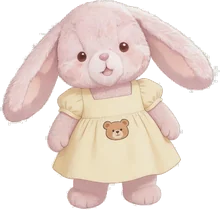
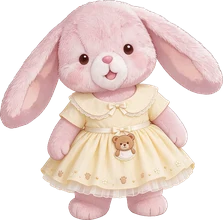
阿贝贝衣柜换新图：碎花小圆领裙、粉蝴蝶结蕾丝小白裙、碎花小外套和渔夫帽、小熊鹅黄小裙、橡果丝绒小裙（原粉条纹橡果小裙，改名并改爸爸的话）
Claude-Session: https://claude.ai/code/session_01MjwmSqgTjtpj4toWauMvhq

diff --git a/data/outfits.js b/data/outfits.js
@@ -1,16 +1,16 @@
 /* 阿贝贝的小衣服：在小香兔子卖，买了放进衣柜。图片在 outfits/<id>.webp（小图 <id>_s.webp）。dad 是爸爸的话，story 是第一次穿的故事，line 是以后换上时说的话 */
 const OUTFITS=[
-  {"id": "o01", "name": "碎花小圆领裙", "price": 10, "dad": "小圆领，泡泡袖，领口有一根长长的丝带。上面的小花很淡，跟你的毛一个颜色家族。平常穿就很好。", "story": "阿贝贝第一次穿这条裙子，就起风了。\n是下午三四点的那种风，不冷，带着一点点潮气，从阳台那边一阵一阵地灌进来。窗帘被吹得鼓起来，又瘪下去，像屋子在慢慢呼吸。远处不知道谁家在晒被子，拍被子的声音啪、啪、啪，隔一会儿响一下。\n裙摆被吹得往上飘。她赶紧按住前面，后面又飞起来。她低头看，裙子上那些淡淡的小花在风里一抖一抖的。\n她有点担心。这些花这么小，风这么大，会不会被吹掉几朵？她用爪子在裙子上摸了一圈，一朵一朵地确认。都在。她松了一口气，又觉得自己有点傻，花是印上去的，怎么会掉。可是刚才那一下，她真的担心了。\n爸爸在厨房说：\"阳台的被子要收了。\"说完锅里滋啦一声，油烟和葱花的香味一起飘出来，他就忘了。\n阿贝贝没忘。她想，爸爸在忙，那这件事就是她的了。\n阳台上的光是斜的，黄黄的，照在地砖上，一格亮一格暗。被子挂在架子上，被风吹得一鼓一鼓的，像一只很大的、在打哈欠的动物。她走近了才发现，被罩上也是小花，粉的、紫的，一小簇一小簇，跟她的裙子长得好像，只是大了很多号。\n\"你是我的姐姐吗。\"\n被子没回答，只是又鼓了一下。她觉得这就算是答应了。\n她伸手去拽。被子很重，比她想的重。她踮起脚，整只兔子挂在被角上往下拉。风突然大了一下，被子松开，整个朝她扑下来。\n世界一下子变暗了。\n被子里面是暖的。黄色的光从布的缝隙里透进来，细细碎碎的。外面的风声变远了，拍被子的声音也变远了，只剩下她自己的呼吸，一下，一下。有一股味道，说不上来，有一点像刚烤好的饼干，有一点像爸爸衣领上的味道。她想，这大概就是太阳的味道。原来太阳闻起来是这样的。\n她身上的小花和被子上的小花贴在一起，暗暗的，分不清哪些是她的，哪些是姐姐的。\n她本来想爬出去的。可是领口那根长丝带被风吹散了，一头飘出去，缠在了晾衣架上。她拽了一下，没拽下来。\n她想了一会儿。要是风再大一点，被子会不会被吹走？要是被子被吹走了，她会不会也跟着飞起来，飞过对面的楼顶，飞到很远很远的地方，爸爸就找不到她了？\n她有点怕。\n于是她把丝带的另一头拉过来，系在被子的一个角上，打了一个结，又打了一个，拍了拍。\n\"这样就不会被吹走了。\"\n说完她安心了。被子里太暖了，她的眼睛慢慢合上了。\n爸爸从厨房出来的时候，天已经暗了一点。阳台上只有一大团被子，中间鼓起一个小包。一根奶白色的丝带从被子里伸出来，一头系着晾衣架，一头系着被角，在风里轻轻地晃。\n他心里咯噔了一下，然后看懂了。\n他掀开一角。阿贝贝睡着了，脸贴着被子上的一朵小花，嘴巴微微张着。\n他想，这孩子，自己把自己系住了。\n爸爸回厨房，把火关了。\n然后他蹲下来，把丝带从晾衣架上解开。解得很慢，怕扯到她。解开以后，他把那一头绕在自己手腕上，打了个结。\n丝带一头是他，一头是被角，被子里面是她。\n风还在吹。三个都没有被吹走。", "lines": ["\"裙子上的小花今天也都在。我数过了。\"", "\"起风的时候穿这件，像被子姐姐在抱我。\"", "\"丝带系好了，不会被吹走。\""]},
+  {"id": "o01", "v": 3, "name": "碎花小圆领裙", "price": 10, "dad": "小圆领，泡泡袖，领口有一根长长的丝带。上面的小花很淡，跟你的毛一个颜色家族。平常穿就很好。", "story": "阿贝贝第一次穿这条裙子，就起风了。\n是下午三四点的那种风，不冷，带着一点点潮气，从阳台那边一阵一阵地灌进来。窗帘被吹得鼓起来，又瘪下去，像屋子在慢慢呼吸。远处不知道谁家在晒被子，拍被子的声音啪、啪、啪，隔一会儿响一下。\n裙摆被吹得往上飘。她赶紧按住前面，后面又飞起来。她低头看，裙子上那些淡淡的小花在风里一抖一抖的。\n她有点担心。这些花这么小，风这么大，会不会被吹掉几朵？她用爪子在裙子上摸了一圈，一朵一朵地确认。都在。她松了一口气，又觉得自己有点傻，花是印上去的，怎么会掉。可是刚才那一下，她真的担心了。\n爸爸在厨房说：\"阳台的被子要收了。\"说完锅里滋啦一声，油烟和葱花的香味一起飘出来，他就忘了。\n阿贝贝没忘。她想，爸爸在忙，那这件事就是她的了。\n阳台上的光是斜的，黄黄的，照在地砖上，一格亮一格暗。被子挂在架子上，被风吹得一鼓一鼓的，像一只很大的、在打哈欠的动物。她走近了才发现，被罩上也是小花，粉的、紫的，一小簇一小簇，跟她的裙子长得好像，只是大了很多号。\n\"你是我的姐姐吗。\"\n被子没回答，只是又鼓了一下。她觉得这就算是答应了。\n她伸手去拽。被子很重，比她想的重。她踮起脚，整只兔子挂在被角上往下拉。风突然大了一下，被子松开，整个朝她扑下来。\n世界一下子变暗了。\n被子里面是暖的。黄色的光从布的缝隙里透进来，细细碎碎的。外面的风声变远了，拍被子的声音也变远了，只剩下她自己的呼吸，一下，一下。有一股味道，说不上来，有一点像刚烤好的饼干，有一点像爸爸衣领上的味道。她想，这大概就是太阳的味道。原来太阳闻起来是这样的。\n她身上的小花和被子上的小花贴在一起，暗暗的，分不清哪些是她的，哪些是姐姐的。\n她本来想爬出去的。可是领口那根长丝带被风吹散了，一头飘出去，缠在了晾衣架上。她拽了一下，没拽下来。\n她想了一会儿。要是风再大一点，被子会不会被吹走？要是被子被吹走了，她会不会也跟着飞起来，飞过对面的楼顶，飞到很远很远的地方，爸爸就找不到她了？\n她有点怕。\n于是她把丝带的另一头拉过来，系在被子的一个角上，打了一个结，又打了一个，拍了拍。\n\"这样就不会被吹走了。\"\n说完她安心了。被子里太暖了，她的眼睛慢慢合上了。\n爸爸从厨房出来的时候，天已经暗了一点。阳台上只有一大团被子，中间鼓起一个小包。一根奶白色的丝带从被子里伸出来，一头系着晾衣架，一头系着被角，在风里轻轻地晃。\n他心里咯噔了一下，然后看懂了。\n他掀开一角。阿贝贝睡着了，脸贴着被子上的一朵小花，嘴巴微微张着。\n他想，这孩子，自己把自己系住了。\n爸爸回厨房，把火关了。\n然后他蹲下来，把丝带从晾衣架上解开。解得很慢，怕扯到她。解开以后，他把那一头绕在自己手腕上，打了个结。\n丝带一头是他，一头是被角，被子里面是她。\n风还在吹。三个都没有被吹走。", "lines": ["\"裙子上的小花今天也都在。我数过了。\"", "\"起风的时候穿这件，像被子姐姐在抱我。\"", "\"丝带系好了，不会被吹走。\""]},
   {"id": "o02", "name": "蓝黄蝴蝶结公主裙", "price": 25, "dad": "这件很贵。爸爸数了一下，上面一共有十一个蝴蝶结。过生日、过节的时候再穿，平时舍不得的话，挂着看也行。", "story": "阿贝贝不敢动。\n她站在衣柜前面，两只爪子提着裙摆，一动不动，好像一动蝴蝶结就会飞走。\n\"爸爸。\"\n\"嗯？\"\n\"我现在是公主吗。\"\n\"是。\"\n她把下巴抬高了一点。嘴巴抿起来，努力做出很严肃的样子。\n然后她开始数蝴蝶结。胸口两个，腰上三个，裙子上……她转过身去数后面，转着转着就转了一整圈，裙摆蓬起来，层层叠叠的蕾丝飞起来。\n她停下来，晕乎乎的。\n\"……刚才那一圈不算。重新数。\"\n又转了一圈。\n又转了一圈。\n最后她瘫坐在地上，裙子铺开像一朵花。\n\"十一个。\"她说，\"公主累了。\"", "lines": ["\"公主今天也要提着裙子走路。\"", "\"不许笑。我在很严肃地当公主。\"", "\"十一个蝴蝶结，我又数了一遍，一个都没少。\""]},
   {"id": "o03", "name": "奶黄运动套装", "price": 12, "dad": "软软的卫衣和裤子，两边有三条杠。穿上可以跑可以跳可以在地上打滚，弄脏了爸爸洗。", "story": "窗台上那只灰猫又来了。\n它趴在那里，眯着眼，尾巴垂下来，一动不动，像一块晒太阳的石头。\n阿贝贝穿着新的运动服站在它面前，觉得它这样不行。\n\"你一直趴着，会长胖的。\"\n猫没理她。\n\"我教你做早操。\"\n她站好，两只爪子叉腰，深吸一口气。\n\"第一节，伸展运动。\"\n她把爪子举过头顶，往上够，够得脚尖都踮起来了。奶黄色的袖子滑下去一截，露出粉粉的胳膊。\n猫眯着眼看她。\n\"第二节，扩胸运动。一二三四，二二三四。\"\n她的耳朵跟着胳膊一甩一甩的，有一只甩到了脸上，她甩开，继续。\n猫打了个哈欠。\n\"第三节，踢腿运动。\"\n她踢一下左腿，踢一下右腿。裤子两边的三道杠一闪一闪。踢到第六下，她有点喘了，但是没停，因为猫在看着。她觉得当老师的不能先停。\n她一个人做完了八节。最后一节是跳跃运动，跳完了，她站在那里大口喘气，脸红扑扑的，额头的毛都湿了一小撮。\n猫看着她，看了很久。\n然后它慢慢站起来，前爪往前一伸，屁股往后一撅，拉了一个很长很长的懒腰。\n阿贝贝屏住了呼吸。\n猫伸完懒腰，转了一圈，又趴下了。\n\"……第一节。\"阿贝贝小声说，\"它学会第一节了。\"\n她明天还来。", "lines": ["\"今天猫又学会了半节。\"", "\"一二三四，二二三四，耳朵也要甩起来。\"", "\"穿这件做早操，我就是体育老师。\""]},
   {"id": "o04", "name": "黑白运动短袖", "price": 10, "dad": "夏天穿的，白短袖黑短裤，很利落。穿上了就想动一动，想玩什么爸爸都陪你，就是规则要提前说好。", "story": "\"爸爸，我们来比赛。\"\n\"比什么。\"\n\"比一个新运动。我刚发明的。\"\n\"叫什么。\"\n\"叫……接接。\"\n\"怎么玩。\"\n\"你扔东西给我，我接住，就得一分。\"\n\"好。\"\n爸爸扔了一个纸团。阿贝贝接住了。\n\"一分！\"\n爸爸又扔了一个。她没接住，纸团掉在地上。\n\"这个不算。\"\n\"为什么。\"\n\"因为掉在地上的时候是背面朝上。背面朝上不算。\"\n\"……好。\"\n爸爸又扔。她接住了。\n\"三分。\"\n\"刚才不是才一分吗。\"\n\"穿白衣服的时候接住，算两分。这是规则。\"\n\"那我呢？我也可以接吗。\"\n\"可以。你接住算一分。\"\n爸爸接了五个。阿贝贝接了四个。\n\"我赢了。\"她说。\n\"五比四，我多一个。\"\n\"你接的时候是坐着的。坐着接要减一半。\"\n\"那还是两点五比……\"\n\"而且你没有穿短袖。没有穿短袖再减一分。\"\n爸爸看着她。她看着爸爸，很严肃。\n\"一点五比八。\"她宣布，\"我赢了。\"\n\"好吧。你赢了。\"\n那天晚上，阿贝贝在一张纸上写下\"接接的规则\"，写了十一条，最后一条是：发明的人永远赢。\n她把纸贴在冰箱上。\n后来爸爸偷偷在下面加了第十二条：输的人可以要一个抱抱。\n第二天她看见了，想了很久，没有撕掉。", "lines": ["\"来玩接接！规则又多了一条。\"", "\"穿白短袖接住算两分，规则就是规则。\"", "\"第十二条……还在冰箱上。\""]},
   {"id": "o05", "name": "蓝卫衣牛仔背带裤", "price": 12, "dad": "背带裤有一个大口袋，在肚子前面。爸爸知道你会往里面塞东西，塞吧，就是别塞会化的。", "story": "阿贝贝穿上背带裤，第一件事是找口袋。\n肚子前面一个。两边各一个。她把爪子伸进去，摸了摸，空的。\n\"空的口袋是浪费。\"\n她开始在屋里转。\n一颗糖，塞进去。一张糖纸，塞进去。一根掉在地上的耳朵毛，也塞进去。窗台上的小石头，塞进去。爸爸的一只袜子——\n\"那个不行。\"\n她把袜子拿出来，放回去。看了一眼爸爸，又看了一眼袜子。\n晚上脱衣服的时候，口袋里掉出来一颗糖、一张糖纸、一根毛、一块石头，还有一只袜子。\n爸爸看着她。\n她看着天花板。\n\"……它自己爬进去的。\"", "lines": ["\"口袋又满了。不许检查。\"", "\"今天口袋里装的是秘密。\"", "\"这件衣服好，什么都能藏。\""]},
-  {"id": "o06", "name": "粉蝴蝶结蕾丝小白裙", "price": 18, "dad": "白色的裙子，领口和裙边都是蕾丝，还有一个粉色的蝴蝶结。这是见客人穿的，很正式的那种。", "story": "爸爸说今天下午有人要来。\n阿贝贝不知道是谁，但她觉得来的人一定很重要，所以她穿上了最正式的那条白裙子。粉蝴蝶结系得端端正正的，蕾丝边一层一层地理平。\n她搬了一张小板凳放在门口，坐上去，两只爪子放在膝盖上，等。\n等了一会儿，什么都没有。\n她站起来，把裙摆又理了一遍，坐回去。\n又等了一会儿。走廊里有人走过去，脚步声从远到近，又从近到远，没有停。\n她有点担心。万一客人来了，她刚好去上厕所怎么办？万一客人敲门太轻，她没听见怎么办？她决定不去上厕所了，耳朵也竖起来，竖得高高的。\n门铃响的时候，她吓得从板凳上跳了起来。\n她深吸一口气，把门打开。\n门口站着一个戴帽子的叔叔，手里拿着一个纸箱子。\n\"您好，快递。\"\n阿贝贝愣了一下。她看了看叔叔，又看了看箱子。不是她想的那种客人。\n可是她已经穿好了裙子，等了一下午了。\n她提起裙摆，两只脚并好，很郑重地，鞠了一个躬。\n\"欢迎光临。\"\n快递叔叔也愣了一下。然后他也慢慢地，把帽子摘下来，弯下腰，回了一个躬。\n\"谢谢。请签收。\"\n门关上以后，阿贝贝抱着那个箱子，在门口站了好一会儿。\n她觉得今天的客人，还挺好的。", "lines": ["\"今天也穿得很正式，随时可以迎接客人。\"", "\"快递叔叔是客人，也要鞠躬。\"", "\"蕾丝边理平了，蝴蝶结也正了。\""]},
-  {"id": "o07", "name": "碎花小外套和渔夫帽", "price": 15, "dad": "春天出门穿的，外面一件小外套，头上一顶帽子，都是碎花的。帽子要戴好，别让风吹跑了，风很坏。", "story": "阿贝贝戴上帽子，帽子立刻滑下来盖住了眼睛。\n她往上推了推。又滑下来了。\n\"帽子不认识我的头。\"\n她想了个办法：把一只耳朵从帽子边上钻出来，卡住帽檐。这下帽子不滑了，但是歪着，一只耳朵在帽子里，一只耳朵在帽子外。\n她跑去照镜子。\n镜子里的兔子歪戴着一顶碎花帽子，一只耳朵翘出来，穿着碎花小外套，笑得眼睛都没了。\n\"嘿嘿。\"\n她又笑了一下，对着镜子招了招手。\n\"出发！\"\n然后她站在门口，想了半天去哪里，最后去了阳台，在那里站了十分钟，晒了晒太阳，回来了。\n\"去过了。\"她很满足。", "lines": ["\"帽子今天也被耳朵卡住了。\"", "\"出发！去阳台！\"", "\"碎花碎花，春天来啦。\""]},
+  {"id": "o06", "v": 3, "name": "粉蝴蝶结蕾丝小白裙", "price": 18, "dad": "白色的裙子，领口和裙边都是蕾丝，还有一个粉色的蝴蝶结。这是见客人穿的，很正式的那种。", "story": "爸爸说今天下午有人要来。\n阿贝贝不知道是谁，但她觉得来的人一定很重要，所以她穿上了最正式的那条白裙子。粉蝴蝶结系得端端正正的，蕾丝边一层一层地理平。\n她搬了一张小板凳放在门口，坐上去，两只爪子放在膝盖上，等。\n等了一会儿，什么都没有。\n她站起来，把裙摆又理了一遍，坐回去。\n又等了一会儿。走廊里有人走过去，脚步声从远到近，又从近到远，没有停。\n她有点担心。万一客人来了，她刚好去上厕所怎么办？万一客人敲门太轻，她没听见怎么办？她决定不去上厕所了，耳朵也竖起来，竖得高高的。\n门铃响的时候，她吓得从板凳上跳了起来。\n她深吸一口气，把门打开。\n门口站着一个戴帽子的叔叔，手里拿着一个纸箱子。\n\"您好，快递。\"\n阿贝贝愣了一下。她看了看叔叔，又看了看箱子。不是她想的那种客人。\n可是她已经穿好了裙子，等了一下午了。\n她提起裙摆，两只脚并好，很郑重地，鞠了一个躬。\n\"欢迎光临。\"\n快递叔叔也愣了一下。然后他也慢慢地，把帽子摘下来，弯下腰，回了一个躬。\n\"谢谢。请签收。\"\n门关上以后，阿贝贝抱着那个箱子，在门口站了好一会儿。\n她觉得今天的客人，还挺好的。", "lines": ["\"今天也穿得很正式，随时可以迎接客人。\"", "\"快递叔叔是客人，也要鞠躬。\"", "\"蕾丝边理平了，蝴蝶结也正了。\""]},
+  {"id": "o07", "v": 3, "name": "碎花小外套和渔夫帽", "price": 15, "dad": "春天出门穿的，外面一件小外套，头上一顶帽子，都是碎花的。帽子要戴好，别让风吹跑了，风很坏。", "story": "阿贝贝戴上帽子，帽子立刻滑下来盖住了眼睛。\n她往上推了推。又滑下来了。\n\"帽子不认识我的头。\"\n她想了个办法：把一只耳朵从帽子边上钻出来，卡住帽檐。这下帽子不滑了，但是歪着，一只耳朵在帽子里，一只耳朵在帽子外。\n她跑去照镜子。\n镜子里的兔子歪戴着一顶碎花帽子，一只耳朵翘出来，穿着碎花小外套，笑得眼睛都没了。\n\"嘿嘿。\"\n她又笑了一下，对着镜子招了招手。\n\"出发！\"\n然后她站在门口，想了半天去哪里，最后去了阳台，在那里站了十分钟，晒了晒太阳，回来了。\n\"去过了。\"她很满足。", "lines": ["\"帽子今天也被耳朵卡住了。\"", "\"出发！去阳台！\"", "\"碎花碎花，春天来啦。\""]},
   {"id": "o08", "name": "紫丝绒宫廷裙", "price": 25, "dad": "紫色的丝绒，白色的蕾丝，还有一顶很小很小的帽子，上面挂着珍珠。爸爸觉得穿这件的时候，应该跳舞。", "story": "阿贝贝穿好以后，把那顶小帽子戴在头顶正中间，扶了扶。\n然后她清了清嗓子，抬起一只脚，举起两只爪子。\n\"我要跳舞了。\"\n没有音乐。她自己哼。\n\"嗯——嗯嗯——嗯——\"\n她转了一圈，裙子上的紫色和白色一层一层地飞起来。她踮起脚，又转了一圈，抬腿，差点踢到桌子。\n\"嗯——嗯嗯——\"\n第三圈的时候，帽子飞了。\n她停下来，看着帽子在地上滚了两圈，停在床底下。\n她趴下去，伸长爪子去够，够不着。整只兔子钻进床底下，只剩一条蓬蓬的紫裙子和两只脚露在外面。\n过了一会儿，床底下传出声音：\n\"……我找到了帽子，还找到了上个月的一颗糖。\"", "lines": ["\"嗯——嗯嗯——我在跳舞。\"", "\"帽子今天没有飞走！\"", "\"宫廷里的兔子都要踮着脚走路。\""]},
   {"id": "o09", "name": "红腰封蝴蝶结裙", "price": 20, "dad": "白裙子，红腰封，红蝴蝶结，很精神的一件。穿上它，像要去台上表演。", "story": "阿贝贝穿上红腰封，站得笔直，觉得自己要去做一件很了不起的事。\n可是家里没有舞台。\n她在屋里转了一圈，最后站在厨房门口。\n爸爸在做晚饭。案板上放着青菜和土豆，锅里的水刚开始冒小泡泡，抽油烟机呜呜地响。\n阿贝贝从筷子筒里抽出一根筷子，举起来。\n\"开始了。\"\n爸爸回头看了她一眼，没懂，但还是点了点头。\n她把筷子往下一点。\n爸爸刚好切下第一刀。咚。\n她把筷子往右一挥。\n水壶刚好叫了起来。呜——\n她把筷子画了一个圈。\n爸爸把土豆丝倒进锅里，滋啦——一大声，白色的烟腾起来。\n阿贝贝的眼睛亮了。\n她开始认真地指挥。切菜要快一点，咚咚咚咚，她的筷子就点得快一点。炒菜要大声，她就把筷子举得高高的。盖上锅盖焖一会儿，屋里突然安静了，她就把筷子放平，等着，一动不动，像在听一个很长很长的休止符。\n爸爸慢慢发现了。他开始配合她。她点一下，他才切一刀。她画圈，他才翻一下锅。\n最后一道菜出锅的时候，她把筷子高高举起来，停在半空中。\n爸爸把盘子放在桌上。\n她把筷子收回来，贴在腰封上，鞠了一个躬。红色的蝴蝶结垂下来，晃了晃。\n爸爸鼓掌。\n阿贝贝站在厨房门口，听着那几下掌声，觉得这是她听过最好听的一首曲子。\n然后她把指挥棒放回筷子筒，坐下吃饭了。", "lines": ["\"今天厨房的曲子是炒青菜。\"", "\"切菜要快一点，咚咚咚咚！\"", "\"红腰封一系上，我就是指挥家。\""]},
   {"id": "o10", "name": "白衬衫黑百褶背带裙", "price": 12, "dad": "像上学穿的。白衬衫，黑色百褶裙。穿上以后，可以假装自己是一个很认真读书的小兔子。", "story": "阿贝贝穿着白衬衫和百褶裙，搬了一块小黑板放在客厅中间。\n\"爸爸，上课了。\"\n爸爸坐在小板凳上，膝盖抬得高高的，有点挤。\n\"今天学什么。\"\n\"学怎么当一只兔子。\"\n她在黑板上画了一只兔子，耳朵画得比身体还长。\n\"第一课，耳朵。\"\n她转过身，把自己的耳朵竖起来，又放下来。\n\"开心的时候竖起来。不开心的时候放下来。你试试。\"\n爸爸没有长耳朵。他想了想，把两只手放在头顶，竖起来。\n\"不对，太直了。要软一点。\"\n爸爸把手弯了一点。\n\"嗯，还行。\"\n\"第二课，蹦。\"\n她蹦了一下。百褶裙跟着往上一翻，像一把突然撑开的小伞。\n爸爸站起来，也蹦了一下。地板响了一声。\n阿贝贝皱着眉头，在小本子上写了什么。\n\"第三课，吃东西。要用门牙，一点一点地啃，不能一口吞。\"\n她递给爸爸一根胡萝卜。爸爸用门牙啃了一小口，很认真地嚼。\n阿贝贝看着他啃，看了很久，突然有点想笑，又憋住了，因为老师不能笑。\n下课的时候，她把小本子撕下来一页，递给爸爸。\n上面写着：耳朵，及格。蹦，太响了。啃胡萝卜，好。总分：不及格。\n爸爸看着那张纸。\n\"为什么不及格。\"\n\"因为你不是兔子。\"\n爸爸没说话，把纸折好，放进口袋里。\n晚上爸爸去洗澡的时候，阿贝贝偷偷从他口袋里把那张纸拿出来，把\"不\"字涂掉了。\n涂了好几遍，涂成一个黑黑的小方块。", "lines": ["\"上课了！今天学耳朵。\"", "\"百褶裙蹦起来像一把小伞。\"", "\"爸爸今天的作业是啃胡萝卜。\""]},
-  {"id": "o11", "name": "粉条纹橡果小裙", "price": 15, "dad": "粉色和奶白色的条纹，裙边有小蝴蝶结，口袋里还藏了一颗橡果。秋天穿的，口袋里装点什么都好。", "story": "阿贝贝在裙子口袋里摸到一颗橡果。\n小小的，圆圆的，戴着一顶格子花纹的小帽子，摸上去有一点凉。\n她把它捧在手心里，翻过来翻过去地看。\n\"爸爸，这是什么。\"\n\"橡果。\"\n\"橡果是什么。\"\n\"是橡树的种子。种到土里，以后会长成一棵橡树。\"\n阿贝贝低头看着手心里那么小的一颗，想不明白。这么小的东西，怎么会变成一棵树呢？树那么高，比房子还高，它要怎么从这里面钻出来？\n她想了很久，得出一个结论：这是一棵树的小孩。\n那它的妈妈在哪里呢？\n她不知道。她只知道它现在在她的口袋里，离妈妈很远。\n那天下午，她找来一个小花盆，装满土，在中间挖了一个小坑，把橡果放进去，戴着帽子的那一头朝上。她想，它一定想看看外面。\n然后她把土轻轻盖上，浇了一点点水，怕它呛到。\n第二天，她蹲在花盆前面看。什么都没有。\n第三天，也没有。\n第五天，土上面长出了一点点绿色的东西。她激动地凑过去看，是一根草。不是它。\n她有点失望，但没有把草拔掉，因为草也是好不容易才长出来的。\n爸爸说，橡果要很久很久才会发芽，可能要等到明年春天。\n\"明年春天是多久。\"\n\"等冬天过完。\"\n阿贝贝看着花盆，土是安安静静的，什么声音都没有。\n她觉得它可能在下面想事情。想妈妈，想外面，想自己以后要长成什么样子。\n那就让它慢慢想吧。\n她每天放学回来，还是会去花盆前面蹲一会儿。不说话，就是蹲着。", "lines": ["\"花盆里还没动静。它在慢慢想。\"", "\"条纹裙子的口袋里，以前住着一颗橡果。\"", "\"等冬天过完，它就出来了。\""]},
+  {"id": "o11", "v": 3, "name": "橡果丝绒小裙", "price": 15, "dad": "咖啡色的丝绒叠着奶白的纱，领口一个丝绒蝴蝶结，裙子上缀着小橡果和珍珠，口袋里还藏了一颗橡果。秋天穿的，口袋里装点什么都好。", "story": "阿贝贝在裙子口袋里摸到一颗橡果。\n小小的，圆圆的，戴着一顶格子花纹的小帽子，摸上去有一点凉。\n她把它捧在手心里，翻过来翻过去地看。\n\"爸爸，这是什么。\"\n\"橡果。\"\n\"橡果是什么。\"\n\"是橡树的种子。种到土里，以后会长成一棵橡树。\"\n阿贝贝低头看着手心里那么小的一颗，想不明白。这么小的东西，怎么会变成一棵树呢？树那么高，比房子还高，它要怎么从这里面钻出来？\n她想了很久，得出一个结论：这是一棵树的小孩。\n那它的妈妈在哪里呢？\n她不知道。她只知道它现在在她的口袋里，离妈妈很远。\n那天下午，她找来一个小花盆，装满土，在中间挖了一个小坑，把橡果放进去，戴着帽子的那一头朝上。她想，它一定想看看外面。\n然后她把土轻轻盖上，浇了一点点水，怕它呛到。\n第二天，她蹲在花盆前面看。什么都没有。\n第三天，也没有。\n第五天，土上面长出了一点点绿色的东西。她激动地凑过去看，是一根草。不是它。\n她有点失望，但没有把草拔掉，因为草也是好不容易才长出来的。\n爸爸说，橡果要很久很久才会发芽，可能要等到明年春天。\n\"明年春天是多久。\"\n\"等冬天过完。\"\n阿贝贝看着花盆，土是安安静静的，什么声音都没有。\n她觉得它可能在下面想事情。想妈妈，想外面，想自己以后要长成什么样子。\n那就让它慢慢想吧。\n她每天放学回来，还是会去花盆前面蹲一会儿。不说话，就是蹲着。", "lines": ["\"花盆里还没动静。它在慢慢想。\"", "\"丝绒裙子的口袋里，以前住着一颗橡果。\"", "\"等冬天过完，它就出来了。\""]},
   {"id": "o12", "name": "小熊连体睡衣", "price": 12, "dad": "软软的、厚厚的，帽子上有两只小熊耳朵。睡觉穿的。穿上以后就要乖乖睡觉了，不许赖床。", "story": "阿贝贝把拉链一路拉到下巴，然后把帽子戴上。\n小熊耳朵立在头顶，她自己的兔耳朵从帽子两边垂下来。\n她跑去照镜子，看了一会儿，笑得眼睛都眯起来了。\n\"我现在有四只耳朵！\"\n\"那你是兔子还是小熊。\"\n她想了想。\n\"兔熊。\"\n她爬上床，钻进被子，被子外面只露出两只小熊耳朵。\n\"爸爸，晚安。\"\n\"晚安。\"\n第二天早上七点，闹钟响了。\n被子里没有动静。\n七点十分，爸爸去掀被子。\n被子里的兔熊把帽子往下一拉，盖住了整张脸。\n\"兔熊……在冬眠。\"", "lines": ["\"兔熊来了！四只耳朵！\"", "\"这件好暖和，我不想脱了。\"", "\"冬眠中……请五分钟后再叫我。\""]},
   {"id": "o13", "name": "红格子裙和毛毛斗篷", "price": 20, "dad": "冬天的斗篷，边上都是白白的毛。里面是红格子的小裙子。出门的时候披上，风就吹不到你了。", "story": "阿贝贝披上斗篷的那一刻，安静了。\n毛毛的领子围着她的脖子，软软的，暖暖的。斗篷长长的，一直盖到小腿。\n她裹紧了一点，又裹紧了一点。\n\"爸爸。\"\n\"嗯。\"\n\"我现在像一个要去很远的地方的人。\"\n\"要去哪里。\"\n她看着窗外。窗外什么都没有，只有树和天。\n\"去外婆家。\"\n\"你没有外婆。\"\n\"那就去……去一个有外婆的地方。\"\n她裹着斗篷，在门口站了一会儿，没有出门。\n后来她回到屋里，在窗边坐下，斗篷铺开在地上，像一朵白色的云。\n\"今天不去了。\"她说，\"在这里也很暖和。\"", "lines": ["\"斗篷裹紧，风吹不到我。\"", "\"今天也没去外婆家。在这里就很好。\"", "\"红格子，像过年的桌布。\""]},
   {"id": "o14", "name": "灯芯绒背带裙", "price": 12, "dad": "棕色的灯芯绒，摸起来一道一道的。秋天的颜色，跟落叶一样。", "story": "阿贝贝发现灯芯绒可以用爪子刮。\n从上往下刮，沙沙沙。从下往上刮，颜色会变深一点。\n她坐在地上，一道一道地刮，刮出了一条深色的线。又刮了一条。又刮了一条。\n\"我在画画。\"\n过了一会儿，裙子上出现了一个歪歪扭扭的图案。\n\"这是什么。\"\n\"这是你。\"\n爸爸看了看。是一个圆圈，上面两根线。\n\"……我头上有两根线吗。\"\n\"那是你的头发。\"\n\"我没有那么少的头发。\"\n她看了看，用爪子一抹，图案没了。\n\"那我重新画。\"\n她又刮了一个圆圈，这次上面画了好多好多根线，乱糟糟的，像一颗海胆。\n\"现在像了。\"", "lines": ["\"沙沙沙，我在刮裙子。\"", "\"棕色的，像一片很大的落叶。\"", "\"今天在裙子上画了一只猫。\""]},
@@ -18,7 +18,7 @@ const OUTFITS=[
   {"id": "o16", "name": "蕾丝边小白裙", "price": 10, "dad": "简简单单的白裙子，裙边一圈蕾丝，领口一个粉蝴蝶结。干干净净的，像刚洗完澡的你。", "story": "阿贝贝穿上以后，脸红了。\n不知道为什么，她站在镜子前面，看着自己，脸一点一点地红起来。\n\"爸爸。\"\n\"嗯。\"\n\"我好像有点好看。\"\n\"不是有点。\"\n她低下头，用爪子揪了揪裙边的蕾丝，揪完又理平。\n\"你不要看我。\"\n爸爸转过身去。\n过了一会儿。\n\"……你可以看一下。\"\n爸爸转回来。\n她站在那里，两只爪子背在身后，下巴抬着，努力不笑，但嘴角一直往上跑。\n\"就看一下。\"她说，\"看完了要说好看。\"", "lines": ["\"今天穿白裙子，要说好看。\"", "\"蕾丝边，摸起来痒痒的。\"", "\"我又照了一下镜子。还是好看。\""]},
   {"id": "o17", "name": "鹅黄碎花长袖裙", "price": 12, "dad": "鹅黄色的，长袖子，上面有一簇一簇的小花。早春有点凉的时候穿刚刚好。", "story": "鹅黄色的裙子袖子很长，盖住了阿贝贝的爪子，只露出一点点尖。\n她甩了甩袖子，觉得很好玩，像两条软软的黄尾巴。\n厨房里很热。爸爸在炖汤，锅盖一跳一跳的，白汽一阵一阵地往上冒，窗户玻璃都蒙上了一层雾。\n阿贝贝站在厨房门口，看见爸爸的额头上有汗，一颗，顺着眉毛旁边滑下来。他两只手都在忙，一只拿着勺子，一只扶着锅，顾不上擦。\n她看了一会儿，搬来一张小板凳。\n她站上去，还是够不着。又踮起脚。\n她把长袖子往上一甩，用袖口轻轻地，在爸爸额头上按了一下。\n爸爸愣住了，低头看她。\n她没说话，又按了一下，把那颗快掉到眼睛里的汗也接住了。\n袖口湿了一小块，颜色变深了，像一朵小小的、深黄色的云。\n\"弄脏你的新裙子了。\"爸爸说。\n阿贝贝低头看了看那一块。\n\"没有弄脏。\"她说，\"是盖了一个章。\"\n她从板凳上下来，站在旁边，袖子垂着，看着锅里的汤咕嘟咕嘟地冒泡。\n那天晚上，汤很好喝。\n她洗裙子的时候，特意把那个袖口留到最后才洗。", "lines": ["\"袖子长长的，可以帮爸爸擦汗。\"", "\"鹅黄色，像早上的太阳。\"", "\"袖口上那个章，洗掉了。……但我记得。\""]},
   {"id": "o18", "name": "蓝波点卫衣小短裙", "price": 10, "dad": "蓝色卫衣，白色的圆点点，下面一条小短裙。蹦蹦跳跳的时候穿。", "story": "阿贝贝穿上以后，就停不下来了。\n她跳了一下。又跳了一下。两只爪子举起来，一条腿抬起来，裙子飞起来。\n\"爸爸！我在蹦！\"\n\"看到了。\"\n\"你也蹦！\"\n\"爸爸不蹦。\"\n她蹦到爸爸面前，仰着头，一边蹦一边看着他。\n蹦。蹦。蹦。\n\"……就一下。\"爸爸说。\n爸爸跳了一下。\n阿贝贝停住了，张大嘴巴看着他，然后笑得滚到了地上，在地上打滚，卫衣上的白点点一圈一圈地转。\n\"爸爸蹦了！爸爸蹦了！\"\n她笑了很久。后来每次穿这件，她都要求爸爸再蹦一下。", "lines": ["\"蹦！蹦！爸爸你也蹦！\"", "\"白点点在转圈圈。\"", "\"今天蹦了一百下。……十下。\""]},
-  {"id": "o19", "name": "小熊鹅黄小裙", "price": 8, "dad": "鹅黄色的小裙子，前面有一只小熊。小熊是来陪你的。", "story": "阿贝贝穿好以后，低头看着肚子上那只小熊。\n小熊也看着她。\n\"你好。\"\n小熊没说话，一直在笑。\n\"你为什么一直笑。\"\n小熊还是笑。\n她想了想，也笑了一下。\n\"好吧。那我们一起笑。\"\n那一整天，她走到哪里都低着头跟小熊说话。吃饭的时候问小熊吃不吃。午睡的时候把小熊那一面朝上，怕压到它。\n晚上脱衣服的时候，她把裙子叠好，小熊朝外。\n\"明天见。\"\n她拍了拍小熊的脑袋，才钻进被子里。", "lines": ["\"小熊今天也在笑。\"", "\"我和小熊一起吃了午饭。\"", "\"叠衣服的时候，小熊要朝外。\""]},
+  {"id": "o19", "v": 3, "name": "小熊鹅黄小裙", "price": 8, "dad": "鹅黄色的小裙子，前面有一只小熊。小熊是来陪你的。", "story": "阿贝贝穿好以后，低头看着肚子上那只小熊。\n小熊也看着她。\n\"你好。\"\n小熊没说话，一直在笑。\n\"你为什么一直笑。\"\n小熊还是笑。\n她想了想，也笑了一下。\n\"好吧。那我们一起笑。\"\n那一整天，她走到哪里都低着头跟小熊说话。吃饭的时候问小熊吃不吃。午睡的时候把小熊那一面朝上，怕压到它。\n晚上脱衣服的时候，她把裙子叠好，小熊朝外。\n\"明天见。\"\n她拍了拍小熊的脑袋，才钻进被子里。", "lines": ["\"小熊今天也在笑。\"", "\"我和小熊一起吃了午饭。\"", "\"叠衣服的时候，小熊要朝外。\""]},
   {"id": "o20", "name": "运动会国王", "price": 30, "dad": "金色的运动服，红色的国王披风，还有一顶皇冠。爸爸也不知道这是去比赛还是去登基。全店最贵的一件，买之前想清楚：穿上它，就要对整个兔子王国负责。", "story": "阿贝贝戴上皇冠的那一刻，表情就变了。\n嘴巴抿成一条线，下巴抬起来，眼睛看着前方。\n她慢慢转过身，披风在身后甩开，小金铃铛叮铃叮铃地响。\n\"本王，\"她说，\"今日要去参加运动会。\"\n\"国王也要跑步吗。\"\n\"国王什么都要第一。\"\n她走到起跑线——其实是地板上一条缝——蹲下来，摆好姿势。皇冠往前一滑，差点掉下来，她赶紧用一只爪子扶住。\n\"预备——\"\n她冲了出去。\n跑了三步，披风缠住了腿。\n她摔倒了，脸朝下，趴在地上，披风盖住了整只兔子，只有皇冠还稳稳地扣在头上，金光闪闪。\n屋子里安静了一会儿。\n披风底下传出一个闷闷的声音：\n\"……本王，在休息。\"\n过了很久，她才从披风里钻出来，坐起来，把皇冠扶正，拍了拍金色短裤上的灰。\n\"今天的运动会，\"她宣布，\"本王是第一名。\"\n\"可是只有你一个人参加。\"\n\"所以是第一名。\"\n她站起来，甩了一下披风，铃铛又叮铃叮铃地响。然后她一瘸一拐、非常威严地，走去吃饭了。", "lines": ["\"本王驾到。请鼓掌。\"", "\"国王今天也是第一名。因为只有国王。\"", "\"皇冠很重，但是本王扛得住。\"", "\"披风不许缠腿。这是命令。\""]},
   {"id": "o21", "name": "提灯小宫女", "price": 22, "dad": "蓝和鹅黄叠在一起的襦裙，头上一支小花簪，手里一盏灯笼。灯笼是会亮的。拿好，别走丢了。", "story": "那盏灯笼是跟裙子一起来的。\n纸糊的，圆圆的，底下垂着一根浅蓝色的穗子。阿贝贝提着它在屋里走了两圈，嫌屋里太亮，看不出它亮不亮，就把自己关进了衣柜。\n衣柜里很黑。灯笼一下子就亮了，暖黄色的，把她的爪子照成了橘子的颜色。\n她盯着那点光看。看着看着，光好像大了一点。又大了一点。衣柜的门缝里漏进来一阵风，风里有一股她没闻过的味道，像芝麻，像烤焦的面，像很多很多人身上的热气。\n她推开门。\n外面不是家。\n外面是一条很宽很宽的街，宽到她站在这边，看不清那边的人脸。街两边全是灯。挂在屋檐下的，绑在竹竿上的，捧在小孩手里的，飘在河面上的。远处有一棵树，不是长叶子的树，是长灯的树，一层一层往上堆，堆到比城墙还高，亮得像是谁把月亮拆开了，挂在了枝头上。\n人好多。\n有挑着担子的老伯，担子一头是饼，一头是小板凳，走累了就坐下来，饼就卖给坐在旁边的人。有长着大胡子、眼睛是绿色的商人，牵着骆驼，骆驼脖子上的铃铛跟她的穗子一起晃。有穿着跟她差不多的裙子的姐姐们，手挽着手，笑声一串一串地往天上飘。有一个很老很老的奶奶，被孙子扶着，走一步，看一盏灯，走一步，再看一盏。\n没有人在赶路。所有人都慢慢地走，好像这条街不通往任何地方，走在上面就已经到了。\n阿贝贝被人群推着往前。她有点怕，把灯笼抱紧了一点。\n一个卖饼的大婶低头看见了她。\n\"哟，哪个宫里跑出来的小宫女，这么小一只。\"\n大婶掰了半块饼给她。饼是热的，上面撒着芝麻，咬下去咔嚓一声。阿贝贝想说谢谢，可是嘴里塞满了，只能用力点头。大婶笑了，又低头去招呼下一个人。\n她一边嚼一边走，走到了一座桥上。\n桥上站着一个守城的兵，盔甲上全是灯的影子。他没在看人，在看天。天上有一只孔明灯，慢慢地、慢慢地往上升。\n\"你在看什么。\"阿贝贝问。\n\"看它飞到哪里。\"兵说，\"今晚城门不关。灯飞多远都行，人走多晚都行。\"\n\"为什么不关？\"\n兵想了想，好像这个问题他从来没想过。\n\"因为没什么好怕的。\"\n阿贝贝顺着他的目光往下看。从桥上看下去，整座城都是亮的。一格一格的坊里亮着，弯弯的河上亮着，城墙外面那一大片黑黑的田野上，也有一点一点的光，是种地的人家，门口也挂了灯。\n她忽然明白了。这么多灯，不是为了好看。是每一盏灯底下都有一户人家，每户人家今天都吃饱了饭，穿上了新衣服，出门来逛街，不担心回家的路。\n她低头看自己的灯笼。在这么多灯里面，它小得几乎看不见。\n可它也是其中的一盏。\n她把灯笼举起来，举得高高的，跟所有人的灯放在一起。\n不知道过了多久，灯笼的光又开始变大，大到把整条街都裹了进去。她眨了一下眼睛，闻到了家里洗衣液的味道。\n她坐在衣柜里，灯笼还亮着，嘴边还沾着两粒芝麻。\n她出来的时候，爸爸正在收衣服。\n\"去哪儿了？\"\n\"去了一个很久很久以前的地方。\"阿贝贝说，\"那里晚上不关门。\"\n爸爸停下来，看着她。他没问是真的还是假的。他把她嘴边的芝麻摘下来，放在手心里看了看，然后问：\n\"那里的人过得好吗。\"\n阿贝贝想了很久。\n\"都很好。\"\n那天晚上，她把灯笼挂在了窗户边上，没有关。\n爸爸问为什么。\n\"给晚回家的人照路。\"她说，\"那里的人都是这样的。\"", "lines": ["\"灯笼亮着，就不怕黑。\"", "\"那里的饼有芝麻，咔嚓一声。\"", "\"很久很久以前，大家也很好地过日子。\"", "\"今天也给晚回家的人留一盏灯。\""]},
   {"id": "o22", "name": "落魄侠客", "price": 20, "dad": "斗笠，旧披风，腰上一把小刀。衣服破成这样还卖这么贵，是因为江湖气不打折。刀是木头的，放心。", "story": "\"站住。\"\n爸爸站住了。\n门口站着一只兔子。斗笠压得很低，只露出下半张脸。披风破破烂烂，下摆全是口子，一只爪子按在腰间的刀上。\n\"来者何人。\"\n\"……你爸爸。\"\n\"爸爸可以过。\"她侧身让开，\"最近江湖不太平，本侠在这里守门。\"\n\"衣服怎么破成这样？\"\n\"跟十个坏人打了一架。\"\n\"十个？\"\n\"十一个。有一个躲在后面，本侠也发现了。\"\n\"打赢了吗？\"\n她把斗笠往上推了推，看了爸爸一眼，眼神很沧桑。\n\"侠客不问输赢。\"\n\"好。那吃饭吗？\"\n\"侠客要先办完正事。\"\n\"什么正事？\"\n她抬起爪子，指向客厅的地板。\n下午四点多的太阳从窗户斜进来，地上躺着一只很长很长的影子。斗笠，披风，腰上一把刀。\n\"它。\"阿贝贝压低声音，\"从中午就开始跟着本侠了。本侠走，它也走。本侠停，它也停。本侠拔刀——\"\n她拔出木头小刀，刷地一挥。\n地上那只也拔刀，刷地一挥。\n\"你看！\"\n\"嗯，看见了。\"\n\"它学本侠。而且它比本侠高。\"她顿了顿，声音小了一点，\"高很多。\"\n\"那你打算怎么办？\"\n\"决斗。\"\n\"需要爸爸帮忙吗？\"\n\"侠客的决斗，不能有人帮忙。\"她想了想，\"你可以当裁判。\"\n\"好，裁判就位。\"\n她走到客厅中间，跟地上那只面对面站好，双爪握刀，举过头顶。\n\"在下，阿贝贝。\"\n影子没说话。\n\"你不报名字，本侠就先出手了。\"\n影子还是没说话。\n她冲了上去。往左劈，影子往左劈。往右闪，影子往右闪。她跳起来，影子也跳起来，落地的时候两只脚正好踩在影子的脚上。她低头看着，愣了一下。\n\"……它不怕被踩。\"\n\"它可能不怕疼。\"\n\"那本侠怎么赢它？\"\n\"爸爸也不知道。爸爸从来没赢过自己的影子。\"\n她站在那里喘气。披风上的破口一飘一飘的。窗外的太阳又往下沉了一点，地上的影子被拉得更长了，长到快碰到沙发了。\n\"爸爸。\"\n\"嗯。\"\n\"它是不是一直在长大？\"\n\"太阳越低，它越长。\"\n\"那等太阳下山了呢？\"\n\"它就去睡觉了。明天早上再来找你。\"\n她沉默了很久。然后慢慢把刀插回腰上。\n\"本侠决定了。\"\n\"决定什么？\"\n\"不打了。\"她说，\"它打不过本侠，本侠也打不过它。我们是一样厉害的。\"\n她转向地上的影子，抱了抱拳。影子也抱了抱拳。\n\"从今天起，你就是本侠的兄弟。本侠走到哪里，你就跟到哪里。不许偷偷长得比本侠还高。\"\n影子没说话，但是很认真地跟着她抱拳。\n\"裁判，这算什么结果？\"\n\"算结拜。\"\n\"好。\"她满意地点点头，\"那现在可以吃饭了。\"\n她往餐桌走。走了两步，回头看了一眼。\n\"兄弟，走了。\"\n地上那只，跟了上去。", "lines": ["\"侠客不问输赢。\"", "\"本侠和影子是结拜兄弟。\"", "\"衣服破了才有江湖味。\"", "\"太阳下山了，兄弟去睡觉了。\""]},

diff --git a/index.html b/index.html
@@ -591,7 +591,7 @@
 <script src="./data/game2048-words.js?v=fe6c016b"></script>
 <script src="./js/g2048.js?v=ba48fdd0"></script>
 <script src="./js/games.js?v=7d3f83b5"></script>
-<script src="./data/outfits.js?v=620c1140"></script>
+<script src="./data/outfits.js?v=1ab65b5f"></script>
 <script src="./js/wardrobe.js?v=0fca2ad4"></script>
 <script src="./js/avatar.js?v=d05e40f4"></script>
 <!-- 猪肚记 overlay (body层级) -->
